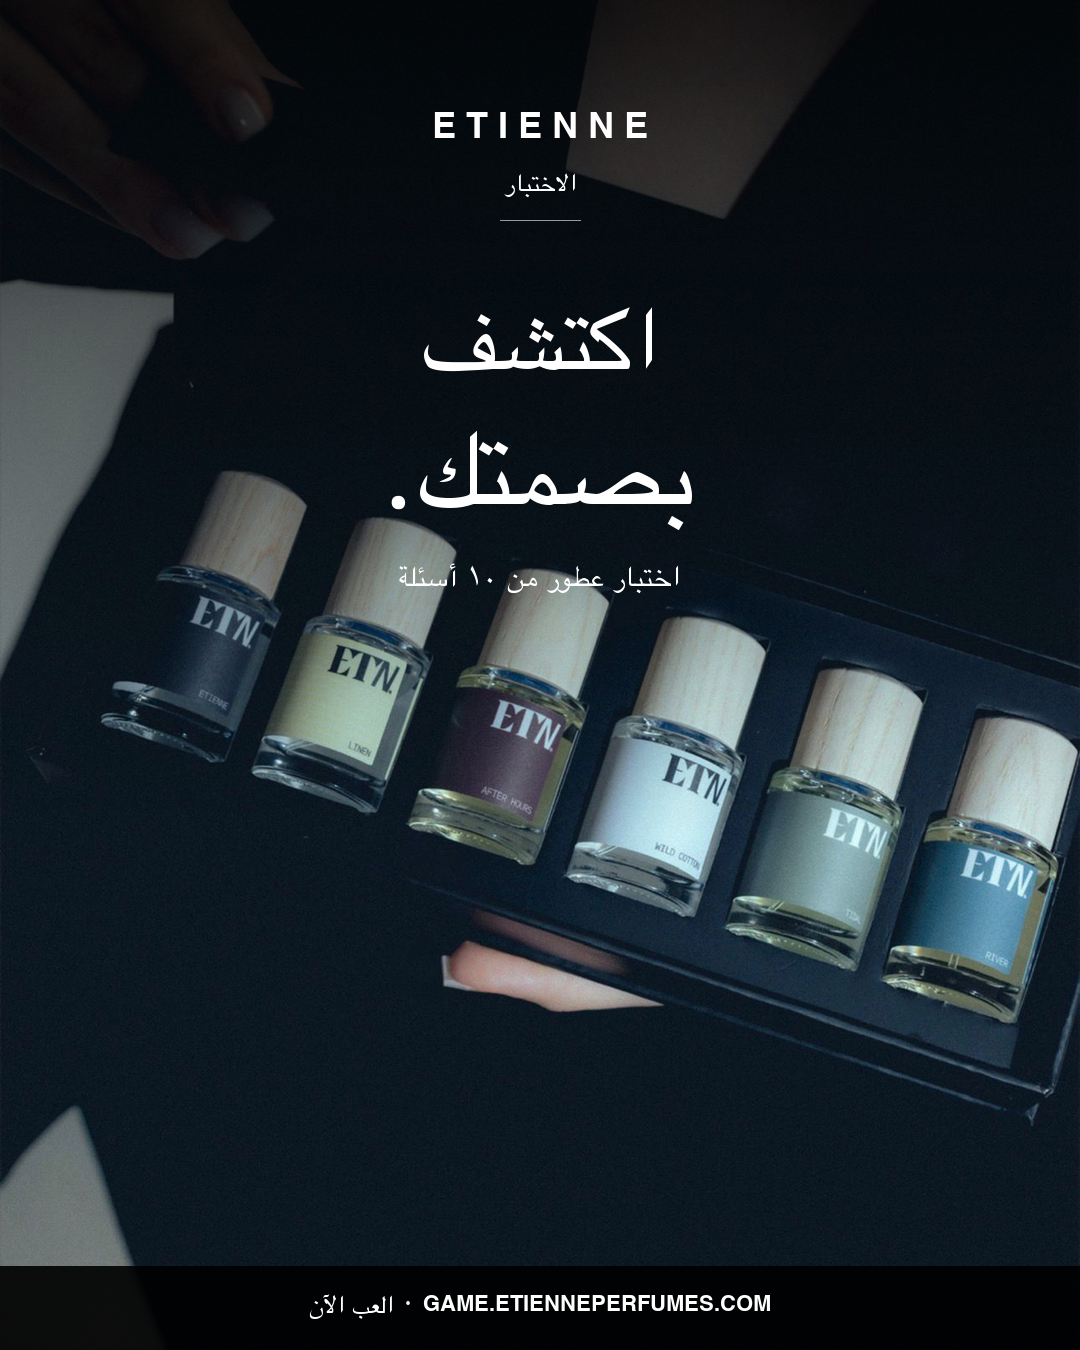
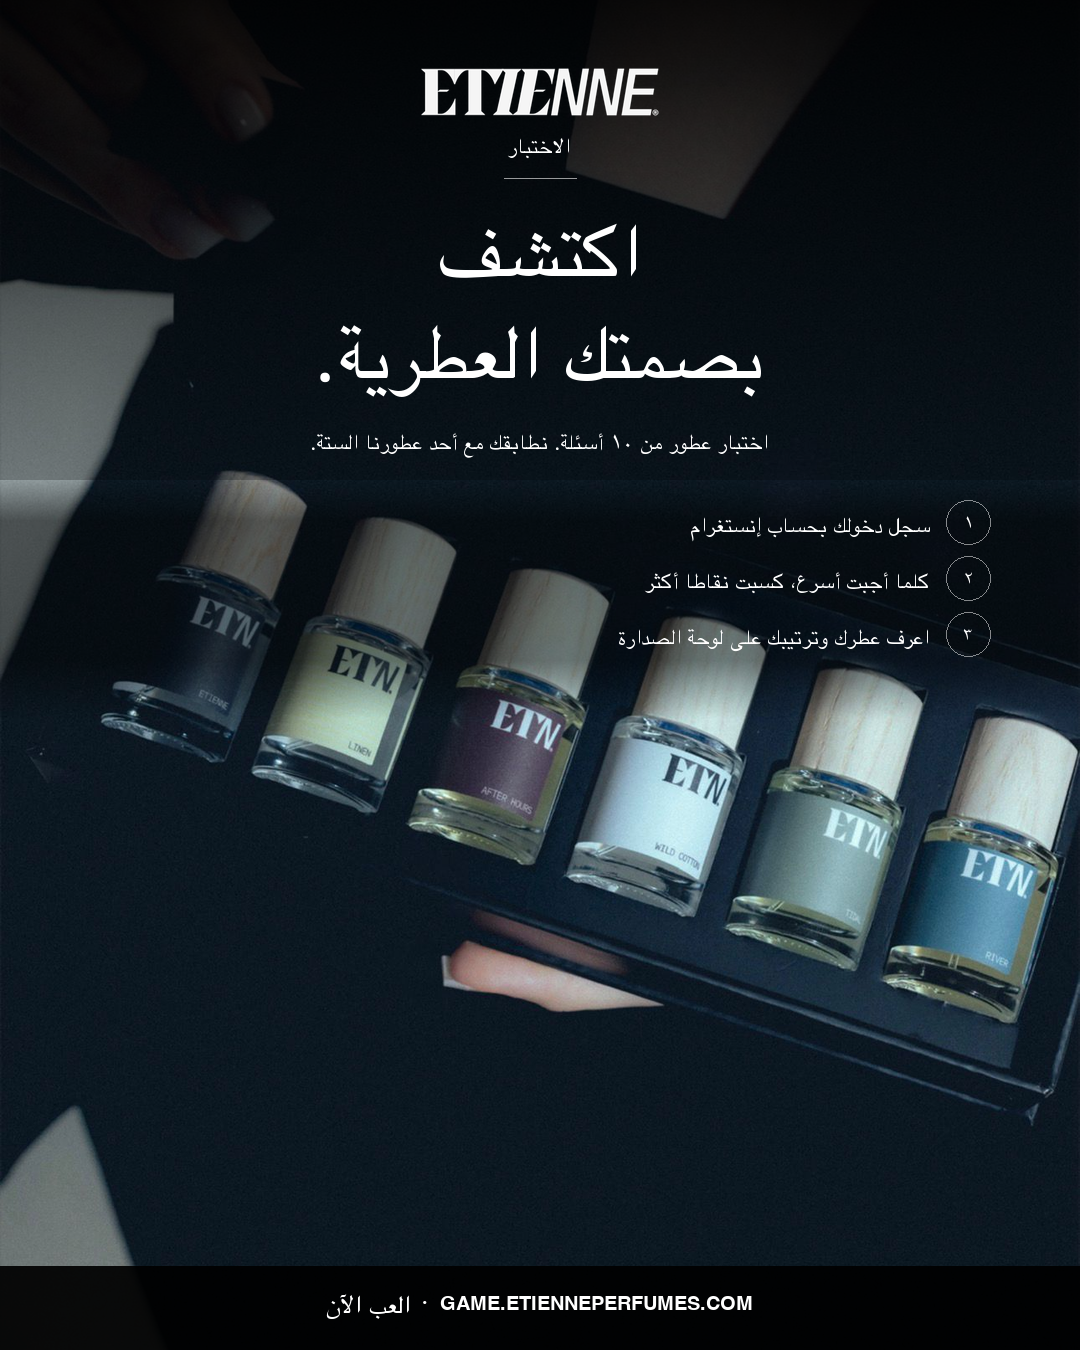
Feed cards: drop in real ETIENNE wordmark + denser explainer copy
- Replace the letter-spaced 'ETIENNE' text with the actual brand
  wordmark PNG (already in /public/brand/) — preserves the stylized
  cut-through letterforms that make the logo recognisable.
- Bring back the 3-step explainer copy on top of the photo, tightened
  vertically so it ends well above the bottle caps.
- Add a soft mid-band darkening overlay (y≈480-720) so the explainer
  rows stay readable when photo content varies behind them.
- One-line caption replaces the previous two-line version: 'A
  10-question scent quiz. We match you to one of six.' / Arabic
  equivalent. Same information, less vertical space.
- New copy expanded: hero is 'Find your signature scent.' (was 'Find
  your signature.') so the post communicates value before the user
  reads the rows.

Both EN + AR re-rendered.

diff --git a/tools/build-feed.py b/tools/build-feed.py
@@ -10,24 +10,25 @@ Output:
 Layout strategy:
     The source photo has the bottles at the bottom and a near-black
     fabric field across the top two-thirds. We crop and scale-to-fill
-    so the bottles sit in the lower portion of the canvas, then lay
-    text over the dark upper region — the photo IS the dark backdrop,
-    no extra fill needed beyond a soft gradient that strengthens text
-    contrast.
+    so the bottles sit in the lower portion of the canvas, then layer
+    over the dark upper region:
 
-    Bottles peek out at the bottom so the post reads as "look at the
-    product" + "play the quiz" in a single frame.
+      - the actual ETIENNE wordmark (PNG, white-on-transparent)
+      - hero hook
+      - 3 compact explainer bullets describing the game
+      - URL strip at the very bottom
 
 Dependencies:
     pip install Pillow arabic_reshaper python-bidi
 """
-from PIL import Image, ImageDraw, ImageFont, ImageFilter
+from PIL import Image, ImageDraw, ImageFont
 import arabic_reshaper
 from bidi.algorithm import get_display
 from pathlib import Path
 
 ROOT = Path(__file__).resolve().parents[1]
 PHOTO = Path(__file__).resolve().parent / "etienne-discovery-photo.jpeg"
+WORDMARK = ROOT / "public" / "brand" / "etienne-wordmark-white@2x.png"
 OUT_DIR = ROOT / "public" / "share"
 OUT_DIR.mkdir(parents=True, exist_ok=True)
 
@@ -51,36 +52,47 @@ def ar(text: str) -> str:
 
 
 def make_background() -> Image.Image:
-    """Scale + crop the source photo to fill 1080×1350, biased toward
-    the bottom so the bottles stay visible. Apply a top→middle dark
-    gradient so text reads cleanly over the fabric area."""
+    """Scale + crop the source photo to fill 1080×1350 with bottles
+    pinned to the bottom. Apply a top-half darkening gradient so text
+    reads cleanly over the fabric area."""
     src = Image.open(PHOTO).convert("RGB")
     sw, sh = src.size
 
-    # Scale to cover 1080 wide
     scale = W / sw
     new_w = int(sw * scale)
     new_h = int(sh * scale)
     src = src.resize((new_w, new_h), Image.LANCZOS)
 
-    # Crop top so bottles end up at the bottom of the frame
     overflow = new_h - H
     if overflow > 0:
         src = src.crop((0, overflow, new_w, new_h))
     elif overflow < 0:
-        # Pad below with black if photo is shorter than canvas
         canvas = Image.new("RGB", (W, H), (0, 0, 0))
         canvas.paste(src, (0, 0))
         src = canvas
 
-    # Slight cool tone tweak — photo is already dark, just darken upper
-    # third for text legibility.
+    # Two overlays: a heavy top fade for the hero, plus a softer band
+    # behind the explainer rows (y≈480–700) so they stay readable even
+    # when the bottle caps start to appear in the bg.
     overlay = Image.new("RGBA", (W, H), (0, 0, 0, 0))
     od = ImageDraw.Draw(overlay)
-    # Vertical gradient: black → transparent over top 70% of canvas.
-    grad_h = int(H * 0.62)
+    grad_h = int(H * 0.55)
     for y in range(grad_h):
-        a = int(180 * (1 - y / grad_h))  # 180 at top → 0 at fade-out
+        t = y / grad_h
+        a = int(220 * (1 - t) ** 1.3)
+        od.line([(0, y), (W, y)], fill=(0, 0, 0, a))
+    # Mid-band hold (covers the explainer rows specifically)
+    mid_top, mid_bot = 480, 720
+    for y in range(mid_top, mid_bot):
+        # ease in at the top, ease out at the bottom for a clean blend
+        if y < mid_top + 40:
+            t = (y - mid_top) / 40
+            a = int(120 * t)
+        elif y > mid_bot - 60:
+            t = (mid_bot - y) / 60
+            a = int(120 * t)
+        else:
+            a = 120
         od.line([(0, y), (W, y)], fill=(0, 0, 0, a))
 
     src = src.convert("RGBA")
@@ -88,72 +100,143 @@ def make_background() -> Image.Image:
     return src.convert("RGB")
 
 
+def paste_wordmark(img: Image.Image, target_height: int, top: int) -> None:
+    """Paste the ETIENNE wordmark PNG (white on transparent) centered
+    horizontally at the given top, scaled to the requested height."""
+    mark = Image.open(WORDMARK).convert("RGBA")
+    mw, mh = mark.size
+    scale = target_height / mh
+    new_w = int(mw * scale)
+    mark = mark.resize((new_w, target_height), Image.LANCZOS)
+    img.paste(mark, ((W - new_w) // 2, top), mark)
+
+
 def draw_centered(d: ImageDraw.ImageDraw, text: str, y: int, font, fill) -> None:
     bb = d.textbbox((0, 0), text, font=font)
     d.text(((W - (bb[2] - bb[0])) // 2, y), text, font=font, fill=fill)
 
 
+# -----------------------------------------------------------------------
+# English
+# -----------------------------------------------------------------------
+
 def render_en(bg: Image.Image) -> Image.Image:
     img = bg.copy()
+    # Real wordmark — replaces the previous letter-spaced text.
+    paste_wordmark(img, target_height=48, top=68)
     d = ImageDraw.Draw(img, "RGBA")
 
-    # ETIENNE wordmark
-    draw_centered(d, " ".join(list("ETIENNE")), 110, f(LATIN, 36, idx=1), (255, 255, 255))
-    draw_centered(d, "T H E   Q U I Z", 168, f(LATIN, 16, idx=0), (255, 255, 255, 170))
+    # kicker beneath the wordmark
+    draw_centered(d, "T H E   Q U I Z", 134, f(LATIN, 15, idx=0),
+                  (255, 255, 255, 180))
 
     # hairline
-    d.line([(W // 2 - 40, 220), (W // 2 + 40, 220)], fill=(255, 255, 255, 150))
+    d.line([(W // 2 - 36, 174), (W // 2 + 36, 174)],
+           fill=(255, 255, 255, 150))
 
-    # hero — bigger, sits in the dark fabric upper half
-    draw_centered(d, "Find your", 290, f(LATIN, 92, idx=1), (255, 255, 255))
-    draw_centered(d, "signature.", 400, f(LATIN, 92, idx=1), (255, 255, 255))
+    # hero — compact 2-line lockup
+    draw_centered(d, "Find your", 210, f(LATIN, 76, idx=1), (255, 255, 255))
+    draw_centered(d, "signature scent.", 300,
+                  f(LATIN, 76, idx=1), (255, 255, 255))
 
-    # caption
-    draw_centered(d, "A 10-question scent quiz",
-                  528, f(LATIN, 26), (255, 255, 255, 200))
+    # caption (single line, broader explainer)
+    draw_centered(d, "A 10-question scent quiz.  We match you to one of six.",
+                  410, f(LATIN, 21), (255, 255, 255, 210))
 
-    # CTA strip at the very bottom — thin dark band keeps the URL
-    # legible regardless of which bottle sits behind it.
+    # 3 numbered explainer rows — packed tight, ending well above the
+    # bottle caps which start around y≈700 in the cropped photo.
+    rows = [
+        ("01", "Sign in with your Instagram handle"),
+        ("02", "Race the clock — faster correct answers earn more"),
+        ("03", "Reveal your signature scent + leaderboard rank"),
+    ]
+    column_x = 90
+    label_font = f(LATIN, 20, idx=0)
+    n_font = f(LATIN, 15, idx=1)
+    y = 490
+    for n, label in rows:
+        cx, cy = column_x + 22, y + 22
+        d.ellipse([cx - 22, cy - 22, cx + 22, cy + 22],
+                  outline=(255, 255, 255, 130), width=1)
+        nb = d.textbbox((0, 0), n, font=n_font)
+        d.text((cx - (nb[2] - nb[0]) // 2,
+                cy - (nb[3] - nb[1]) // 2 - 2),
+               n, font=n_font, fill=(255, 255, 255, 240))
+        d.text((column_x + 60, y + 13), label,
+               font=label_font, fill=(255, 255, 255, 240))
+        y += 56
+
+    # CTA band at the very bottom
     band_h = 84
-    band = Image.new("RGBA", (W, band_h), (0, 0, 0, 230))
+    band = Image.new("RGBA", (W, band_h), (0, 0, 0, 235))
     img.paste(band, (0, H - band_h), band)
     d2 = ImageDraw.Draw(img, "RGBA")
-    draw_centered(d2, "PLAY  ·  GAME.ETIENNEPERFUMES.COM",
-                  H - band_h + 30, f(LATIN, 22, idx=1), (255, 255, 255))
+    draw_centered(d2, "PLAY NOW  ·  GAME.ETIENNEPERFUMES.COM",
+                  H - band_h + 30, f(LATIN, 20, idx=1), (255, 255, 255))
 
     return img
 
 
+# -----------------------------------------------------------------------
+# Arabic
+# -----------------------------------------------------------------------
+
 def render_ar(bg: Image.Image) -> Image.Image:
     img = bg.copy()
+    paste_wordmark(img, target_height=48, top=68)
     d = ImageDraw.Draw(img, "RGBA")
 
-    # ETIENNE wordmark (Latin)
-    draw_centered(d, " ".join(list("ETIENNE")), 110, f(LATIN, 36, idx=1),
-                  (255, 255, 255))
     # Arabic kicker
-    draw_centered(d, ar("الاختبار"), 168, f(AR_FONT, 26), (255, 255, 255, 170))
+    draw_centered(d, ar("الاختبار"), 134, f(AR_FONT, 22),
+                  (255, 255, 255, 180))
 
-    d.line([(W // 2 - 40, 220), (W // 2 + 40, 220)], fill=(255, 255, 255, 150))
+    d.line([(W // 2 - 36, 178), (W // 2 + 36, 178)],
+           fill=(255, 255, 255, 150))
 
     # hero
-    draw_centered(d, ar("اكتشف"), 290, f(AR_FONT, 92), (255, 255, 255))
-    draw_centered(d, ar("بصمتك."), 410, f(AR_FONT, 110), (255, 255, 255))
+    draw_centered(d, ar("اكتشف"), 210, f(AR_FONT, 78), (255, 255, 255))
+    draw_centered(d, ar("بصمتك العطرية."), 312,
+                  f(AR_FONT, 78), (255, 255, 255))
 
     # caption
-    draw_centered(d, ar("اختبار عطور من ١٠ أسئلة"), 560, f(AR_FONT, 30),
-                  (255, 255, 255, 200))
+    draw_centered(d, ar("اختبار عطور من ١٠ أسئلة. نطابقك مع أحد عطورنا الستة."),
+                  430, f(AR_FONT, 22), (255, 255, 255, 210))
+
+    # 3 explainer rows — number circle on RIGHT, label right-aligned
+    rows = [
+        ("١", "سجّل دخولك بحساب إنستغرام"),
+        ("٢", "كلما أجبت أسرع، كسبت نقاطًا أكثر"),
+        ("٣", "اعرف عطرك وترتيبك على لوحة الصدارة"),
+    ]
+    column_right = W - 90
+    label_font = f(AR_FONT, 22)
+    n_font = f(AR_FONT, 18)
+    y = 500
+    for n, label in rows:
+        cx, cy = column_right - 22, y + 22
+        d.ellipse([cx - 22, cy - 22, cx + 22, cy + 22],
+                  outline=(255, 255, 255, 130), width=1)
+        nshaped = ar(n)
+        nb = d.textbbox((0, 0), nshaped, font=n_font)
+        d.text((cx - (nb[2] - nb[0]) // 2,
+                cy - (nb[3] - nb[1]) // 2 - 4),
+               nshaped, font=n_font, fill=(255, 255, 255, 240))
+        lshaped = ar(label)
+        lb = d.textbbox((0, 0), lshaped, font=label_font)
+        d.text((column_right - 60 - (lb[2] - lb[0]), y + 13),
+               lshaped, font=label_font, fill=(255, 255, 255, 240))
+        y += 56
 
     # CTA band — Arabic words + Latin URL, both centered
     band_h = 84
-    band = Image.new("RGBA", (W, band_h), (0, 0, 0, 230))
+    band = Image.new("RGBA", (W, band_h), (0, 0, 0, 235))
     img.paste(band, (0, H - band_h), band)
     d2 = ImageDraw.Draw(img, "RGBA")
     ar_part = ar("العب الآن")
     sep = "  ·  "
     url = "GAME.ETIENNEPERFUMES.COM"
     af = f(AR_FONT, 26)
-    sf = f(LATIN, 22, idx=1)
+    sf = f(LATIN, 20, idx=1)
     aw = d.textbbox((0, 0), ar_part, font=af)[2]
     sw = d.textbbox((0, 0), sep, font=sf)[2]
     uw = d.textbbox((0, 0), url, font=sf)[2]
